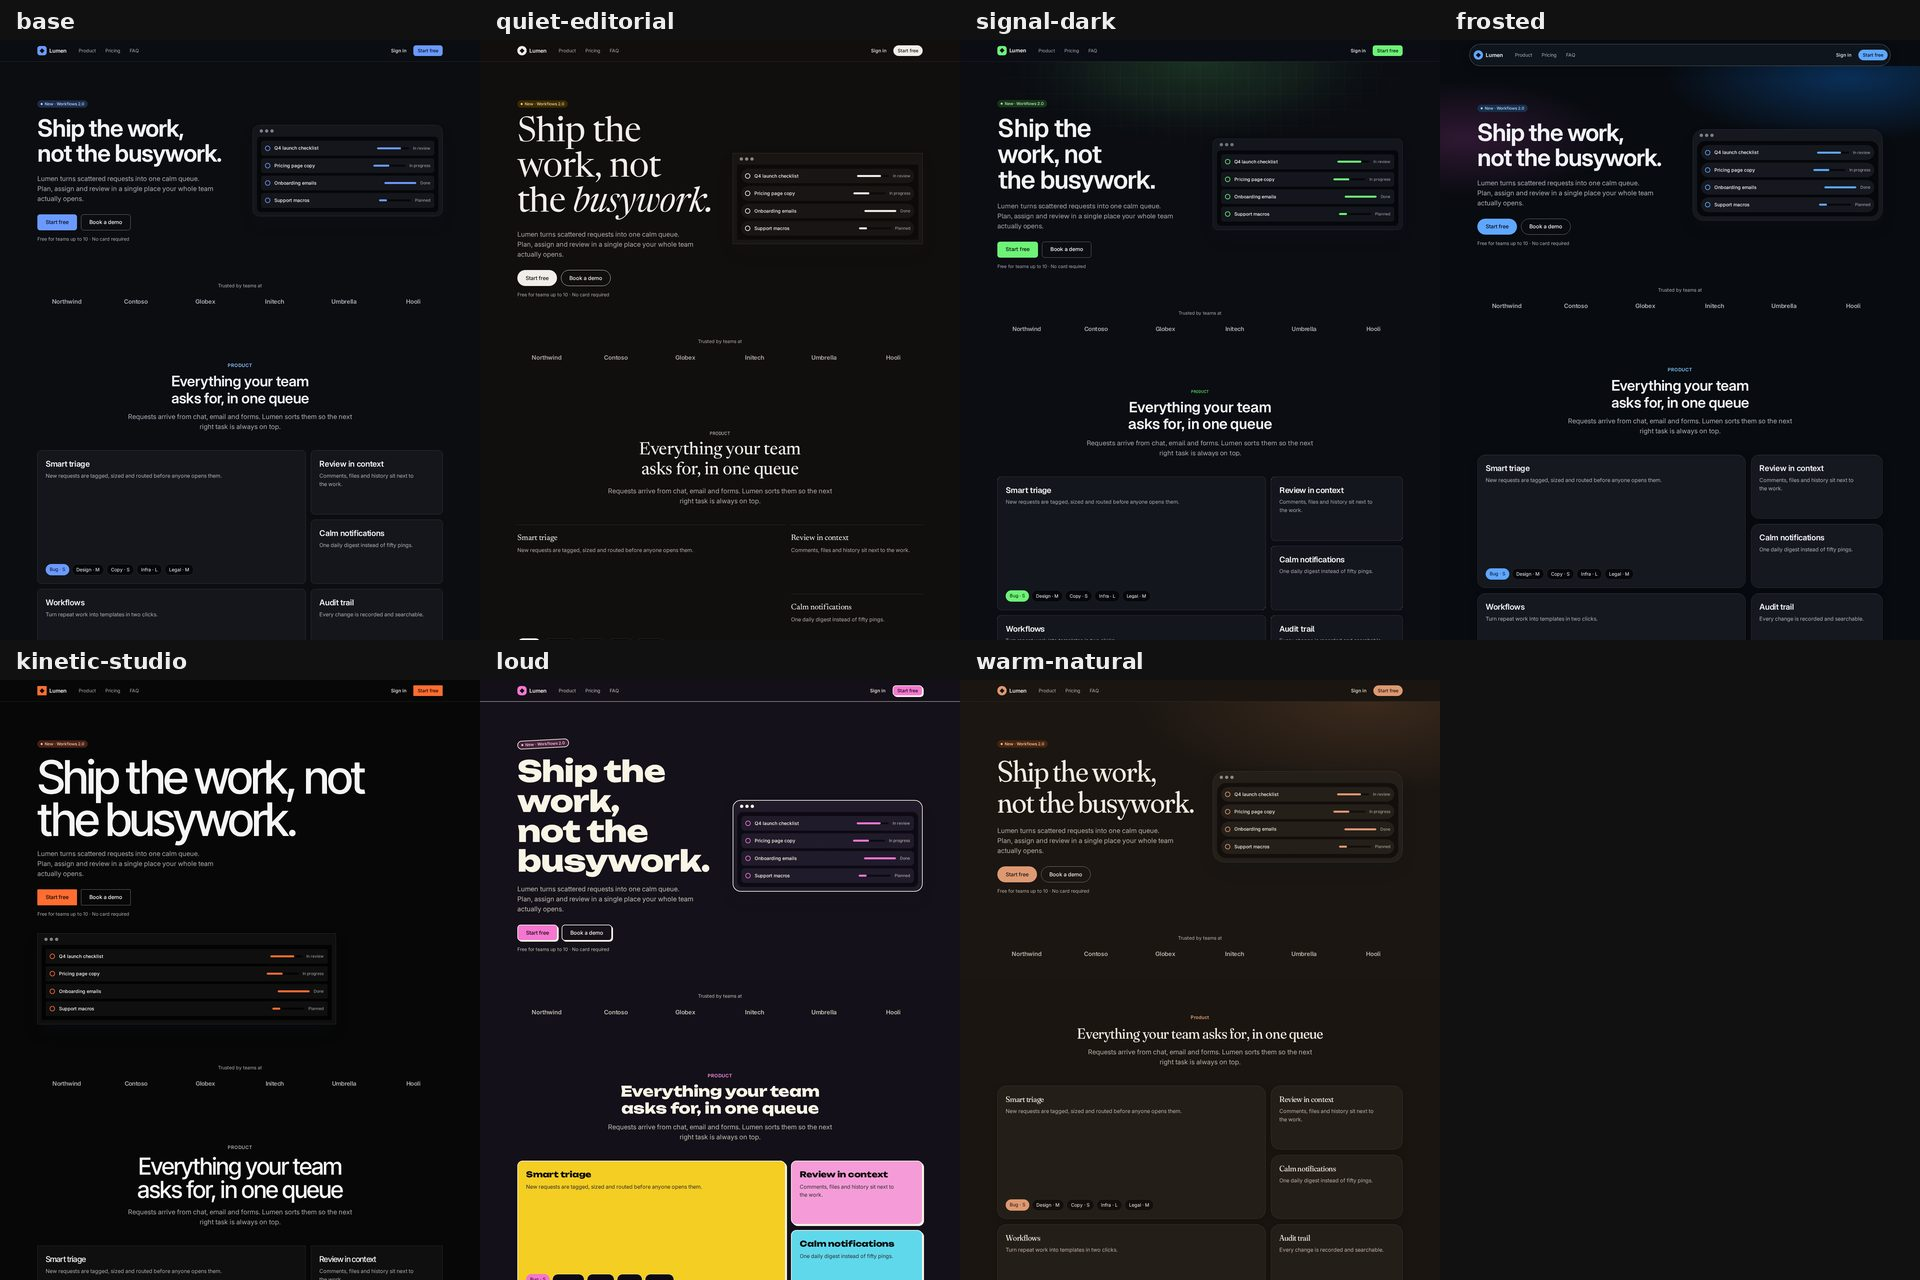
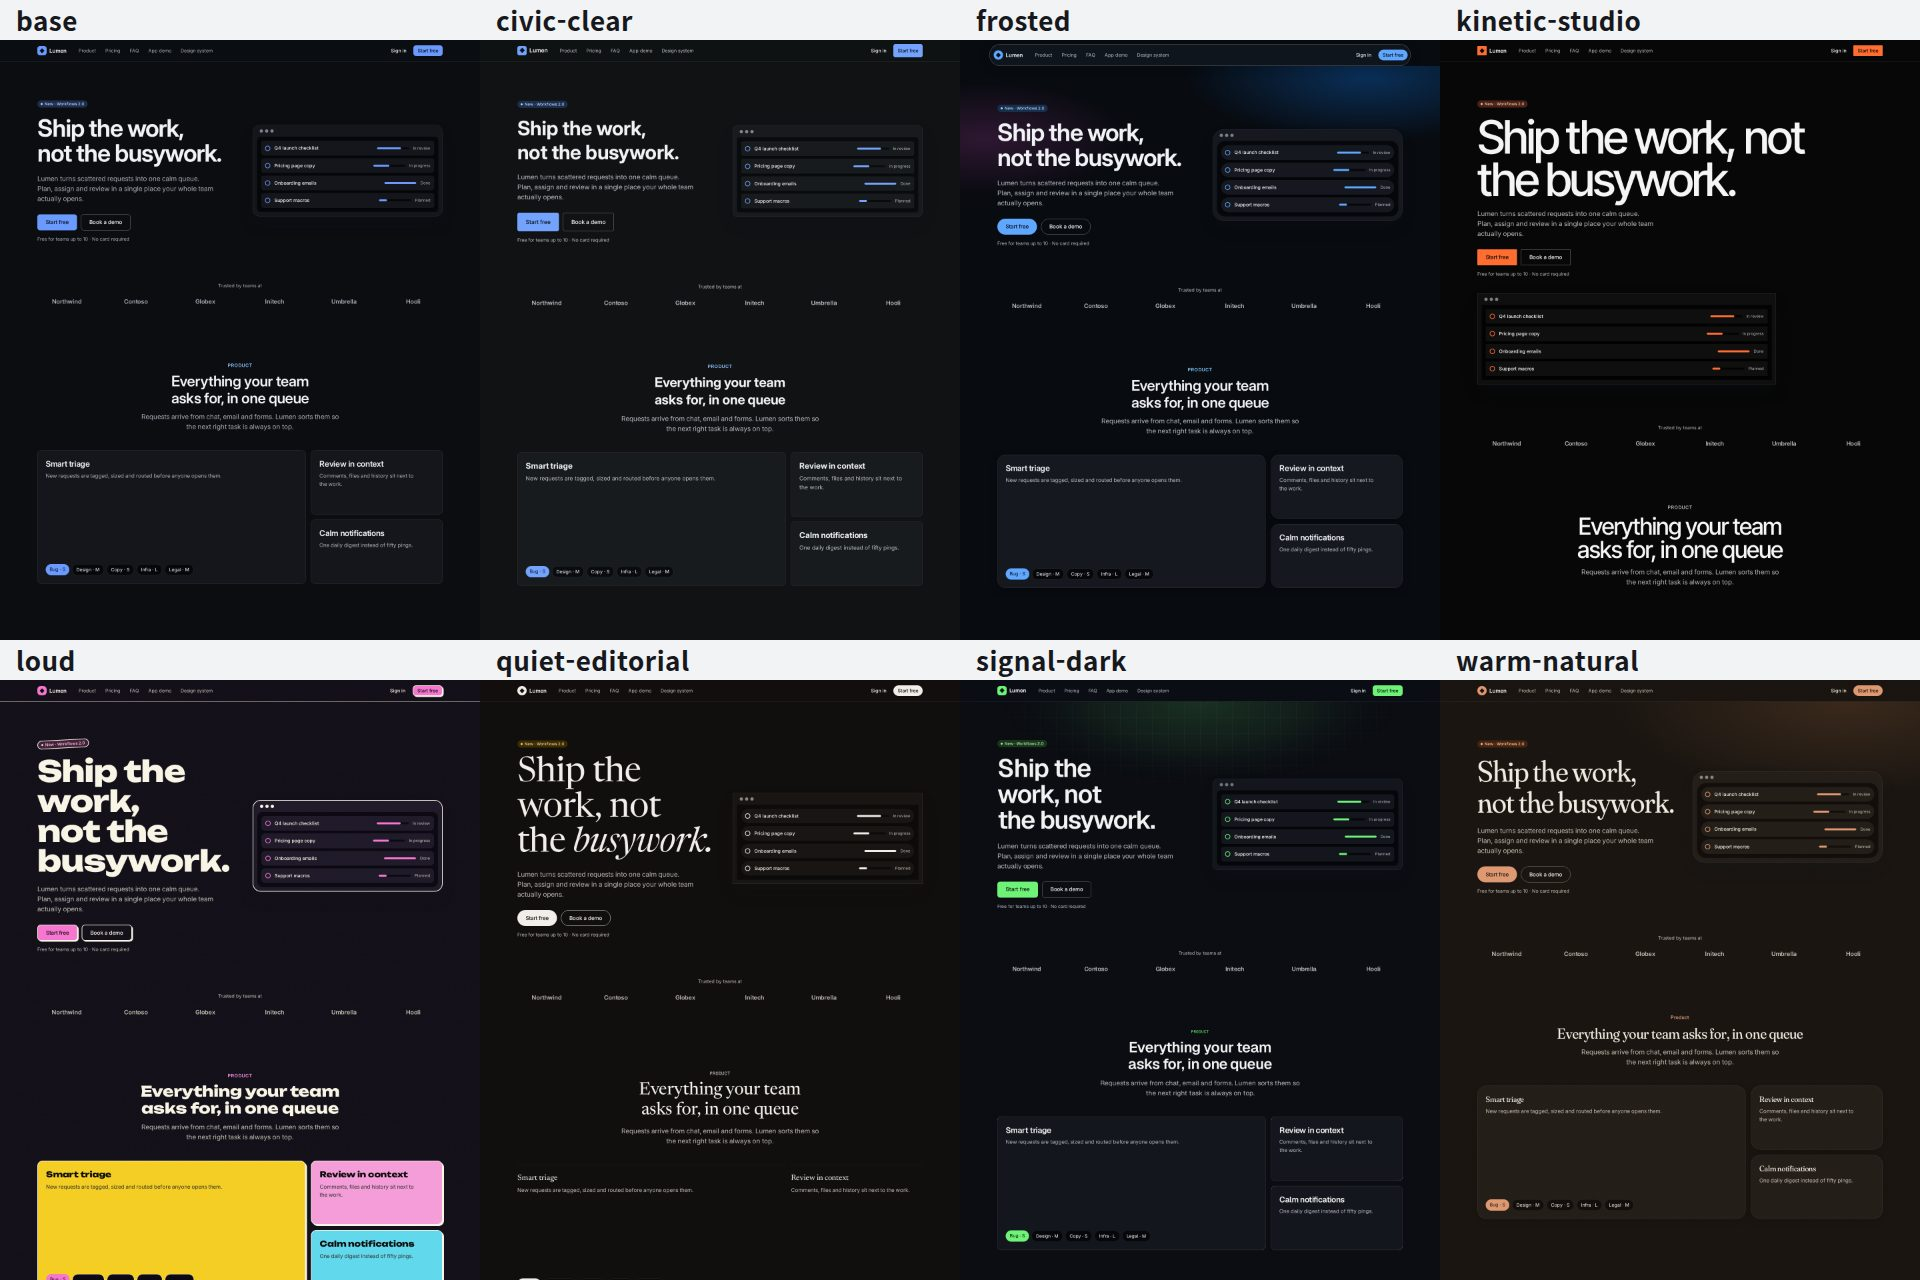
docs: README and images for v0.4
Regenerate all README images from the template build with docs/capture.mjs: eight looks
(base + 7 packs, civic-clear was missing) in light and dark, the product UI, the style
guide and the illustration matrix. README (en/ko) gains a Vite vs Next.js comparison and
a quality-gates table.

diff --git a/README.md b/README.md
@@ -7,13 +7,57 @@ A Claude Code skill that designs and builds web UIs as **one Figma + React syste
 - **Principles that don't change.** How people see, decide and act on a screen: attention, scanning, Fitts's law, touch reach, response times, motion perception and accessibility. They are written as about 75 testable rules.
 - **Trends that change every few months.** Dated, swappable **trend packs**. Moving a product to the current look is a data change, `trend apply <id>`, and not a rewrite. Figma follows with the same command.
 
-![Seven looks, one codebase: base and six trend packs (light)](docs/trends-light.jpg)
+![Eight looks, one codebase: the base and seven trend packs, light mode](docs/trends-light.jpg)
 
-The page above is the same React code in all seven panels. Only the active trend pack differs. Every panel passes the same human-factors audit (0 MUST, 0 SHOULD findings) in light and dark mode, at 320, 375, 768 and 1440 px. The template also has a product-UI page (`#/app`) and a **living style guide** (`#/system`), and the audit checks both on every trend.
-- `#/app` has a sidebar shell, a ⌘K palette, a data table with bulk actions and undo, dialogs, menus, toasts, skeletons and empty states.
-- `#/system` covers foundations with live contrast badges, components, Do/Don't cards, and token-driven illustrations that re-theme with every trend.
+All eight panels run the same React code. Only the active trend pack changes. Every panel passes the same audit in light and dark mode, at 320, 375, 768 and 1440 px, with 0 MUST findings. The audit covers human factors, performance on a slow phone, and SEO.
 
-![Token-driven illustrations: one source, re-themed by every trend and dark mode](docs/illustrations.jpg)
+<details>
+<summary>The same eight looks in dark mode</summary>
+
+![The base and seven trend packs, dark mode](docs/trends-dark.jpg)
+
+</details>
+
+The template has three pages, and the audit checks each one on every trend:
+
+- **`/`, the marketing page:** hero, logos, bento grid, stats, testimonial, pricing, FAQ and CTA.
+- **`#/app`, the product UI:** a sidebar shell, a ⌘K command palette, a data table with sorting, bulk actions and undo, plus dialogs, menus, tooltips, toasts, skeletons and empty states.
+- **`#/system`, a living style guide:** foundations with live contrast badges, components, Do/Don't cards, and illustrations drawn from tokens.
+
+![The product UI in the base trend (light) and signal-dark (dark)](docs/app.jpg)
+
+![The living style guide in the base trend and in warm-natural](docs/system.jpg)
+
+![Token-driven illustrations: one source, re-themed by every trend in light and dark](docs/illustrations.jpg)
+
+## Vite or Next.js
+
+`new-project.mjs` creates either kind of project. Both share the same components, sections and screens in `src/`.
+
+| | Vite (default) | Next.js 16 (`--framework next`) |
+|---|---|---|
+| Routing | hash routes (`#/app`), so any static host works | real paths (`/app`), with metadata per route |
+| First paint | rendered in the browser | every route prerendered to HTML |
+| LCP on slow 4G | 2.1–2.6 s | 1.6 s |
+| First-load JS | 101–143 KB | 170–211 KB |
+| Fonts | stylesheets linked from the head; each trend's fonts load on demand | `next/font`, self-hosted, with metric-matched fallbacks |
+| Deploy | `dist/` on any static host | `next start`, a container, or a static export (`npm run build:static`) |
+
+Choose Next.js when pages need to rank on their own or load faster. Choose Vite when first-load JS on low-end phones matters most.
+
+## Quality gates
+
+Every check runs on every build or audit, and `references/web-quality.md` documents the rules.
+
+| Gate | What it checks | When |
+|---|---|---|
+| `code-lint.mjs` (CL-01–13) | raw colors, default palette classes, arbitrary px, removed focus outlines, actions on pointer down, clickable `div`s, missing `alt` or image size, disabled zoom | `npm run build` |
+| `trend check` | text contrast of 4.5:1 and boundary contrast of 3:1 in both modes, motion limits, pack schema and freshness | CI |
+| `audit.mjs`, human factors | about 75 rules from `principles.md`: targets, measure, focus, contrast, layout and motion, plus axe | `npm run audit` |
+| `audit.mjs`, performance (PF) | on a mobile profile over slow 4G with the CPU slowed 4×: LCP, CLS, TBT, byte budgets, images, fonts, blocking scripts | `npm run audit` |
+| `audit.mjs`, SEO and sharing (SE) | runs with and without JS: title, description, canonical, Open Graph, favicons, JSON-LD, robots and sitemap, crawlable links | `npm run audit` |
+| Visual regression (VR-01) | pixel diffs against saved baselines | `--baseline save` / `compare` |
+| Component tests | keyboard and focus behavior and axe, in a real browser (Vitest browser mode) | `npm test` |
 
 ## What's inside
 

diff --git a/CHANGELOG.md b/CHANGELOG.md
@@ -18,6 +18,10 @@
   - PNG favicon, apple-touch-icon, manifest and a 1200 × 630 OG image
   - `robots.txt` and `sitemap.xml` generated from `VITE_SITE_URL` (`new-project.mjs --site-url`)
 
+### Docs
+- README (English and Korean) rewritten for v0.4. It has a Vite vs Next.js comparison and a quality-gates table, and its images are regenerated: all 8 looks in light and in dark, the product UI, the style guide, and the illustrations in every trend.
+- `docs/capture.mjs` regenerates every README image from the template build.
+
 ### Changed
 - **Performance:** home LCP 2456 → 2140 ms, app 3228 → 2616 ms, critical JS 146/171/168 → 101/143/129 KB.
   - The motion engine loads after `load` through `LazyMotion` (`m.*` components).
